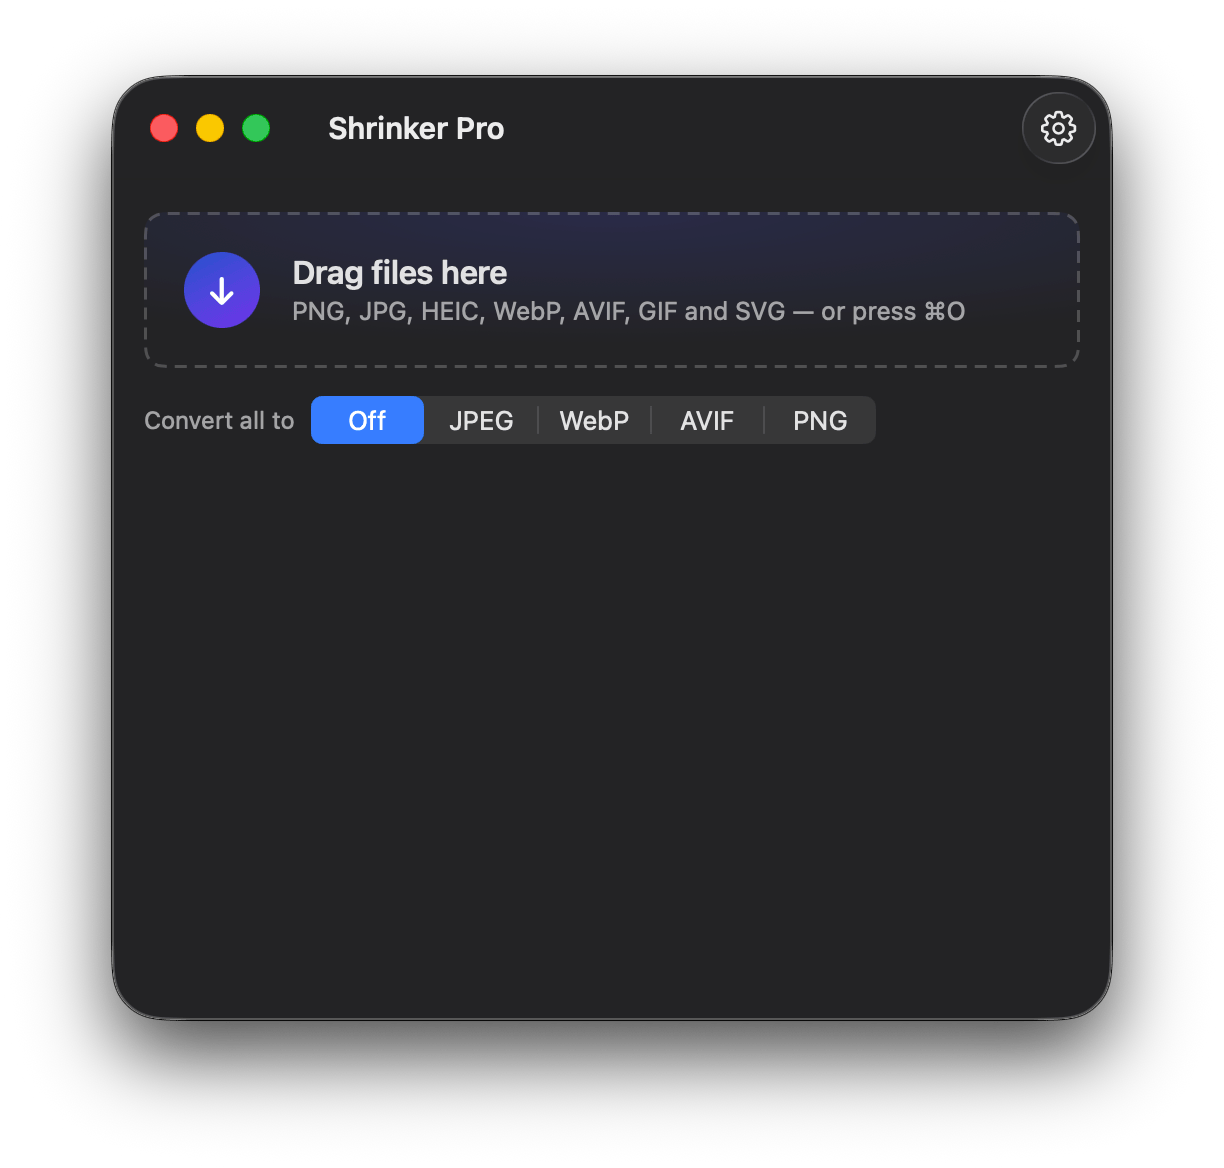
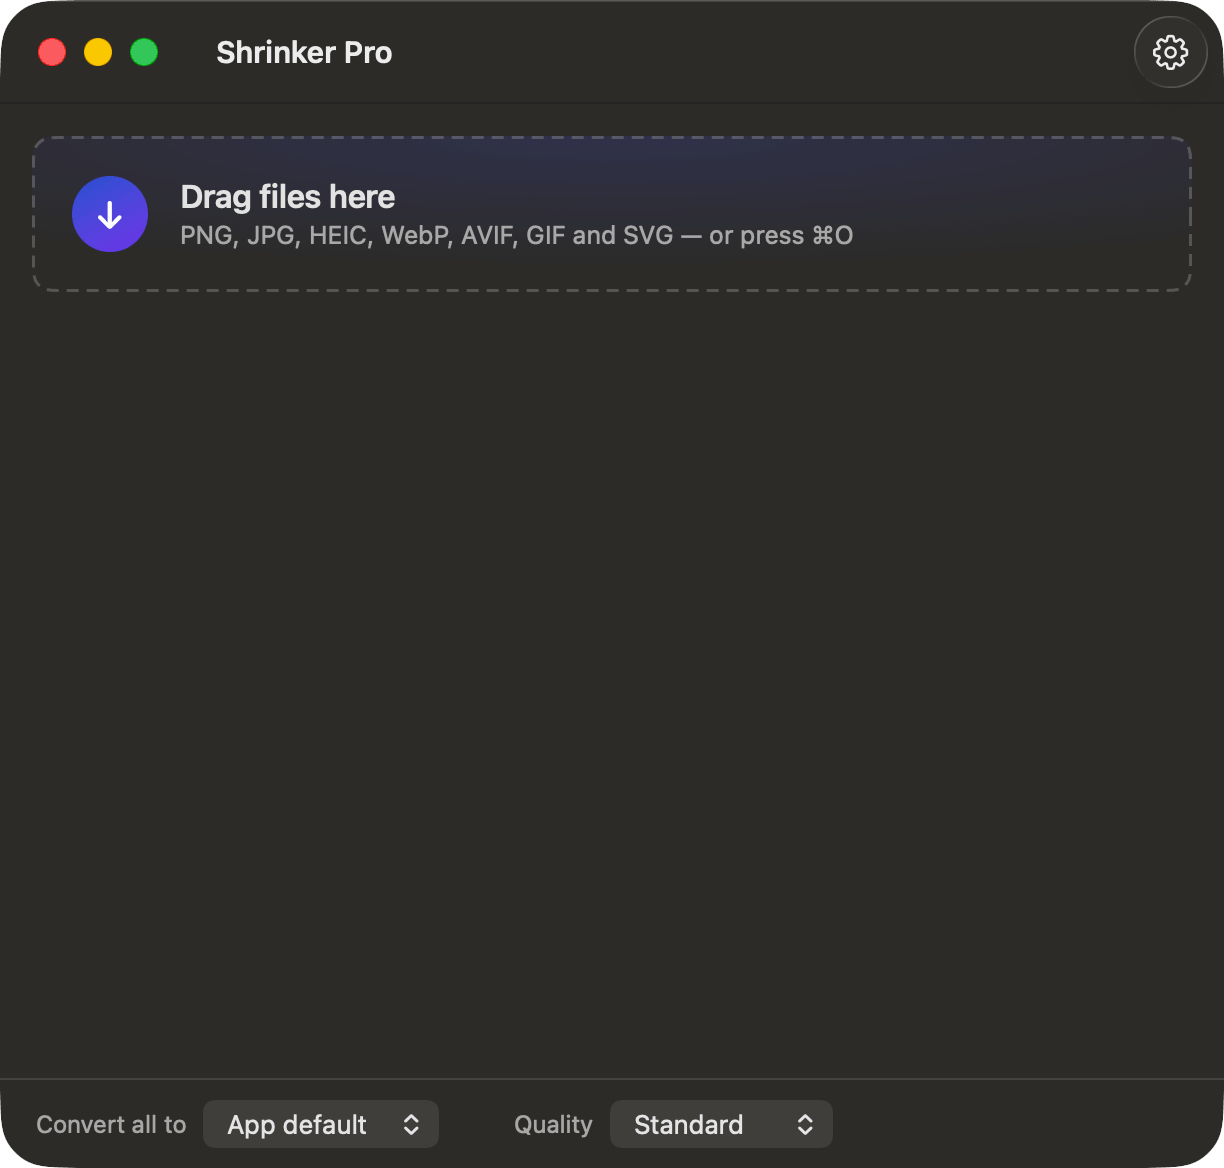
Retake the screenshots against the app as it is now
Every image dated from the day before the footer landed, so the README's
most prominent content showed a "Convert all to" bar above the results list
— a control that no longer exists in that position — while the text beneath
described a pinned footer. Settings showed no Quality section at all.

All six retaken from the Release build at true @2x, matching the existing
framing exactly: main-window 1224x1472, empty-state-compact 1224x1168.
Settings is now 840x1862 rather than the old 1064x1766, because the panel
is genuinely 420pt wide today; padding it out to match a stale target would
have been dressing up an inaccuracy.

Captured by window id rather than screen region. A first attempt used
-R with the window's bounds and baked a sliver of an unrelated window into
the corner of every shot — screencapture -l composites the window alone, so
nothing in front of it can bleed in.

Palettised with the project's own pngquant, matching the treatment in
3930477 ("Compress the release screenshots") — the captures came out 8-bit
RGBA and the committed ones were 8-bit colormap, so shipping them as taken
would have quietly undone that work. Every file is now smaller than the one
it replaces; the set went from 1,374,259 to 383,485 bytes.

The result rows show invented filenames over real photographs, so the sizes
and percentages are genuine (45.6 MB saved across six files, four formats)
without publishing anyone's filenames. The list renders no thumbnails, so
[…]

diff --git a/README.md b/README.md
@@ -278,10 +278,11 @@ Drop anywhere in the window, not just the dashed zone.
 <picture>
   <source media="(prefers-color-scheme: dark)" srcset="docs/screenshots/settings-dark.png">
   <source media="(prefers-color-scheme: light)" srcset="docs/screenshots/settings-light.png">
-  <img src="docs/screenshots/settings-dark.png" alt="Settings showing output location, the “Keep original files” toggle, notification and update toggles, the per-format conversion rules, and the metadata policy.">
+  <img src="docs/screenshots/settings-dark.png" alt="Settings showing output location, the “Keep original files” toggle, notification and update toggles, the per-format conversion rules, the Quality level, and the metadata policy.">
 </picture>
 
-Output location, notifications, per-format conversion rules and metadata.
+Output location, notifications, per-format conversion rules, quality and
+metadata.
 
 </td>
 </tr>
